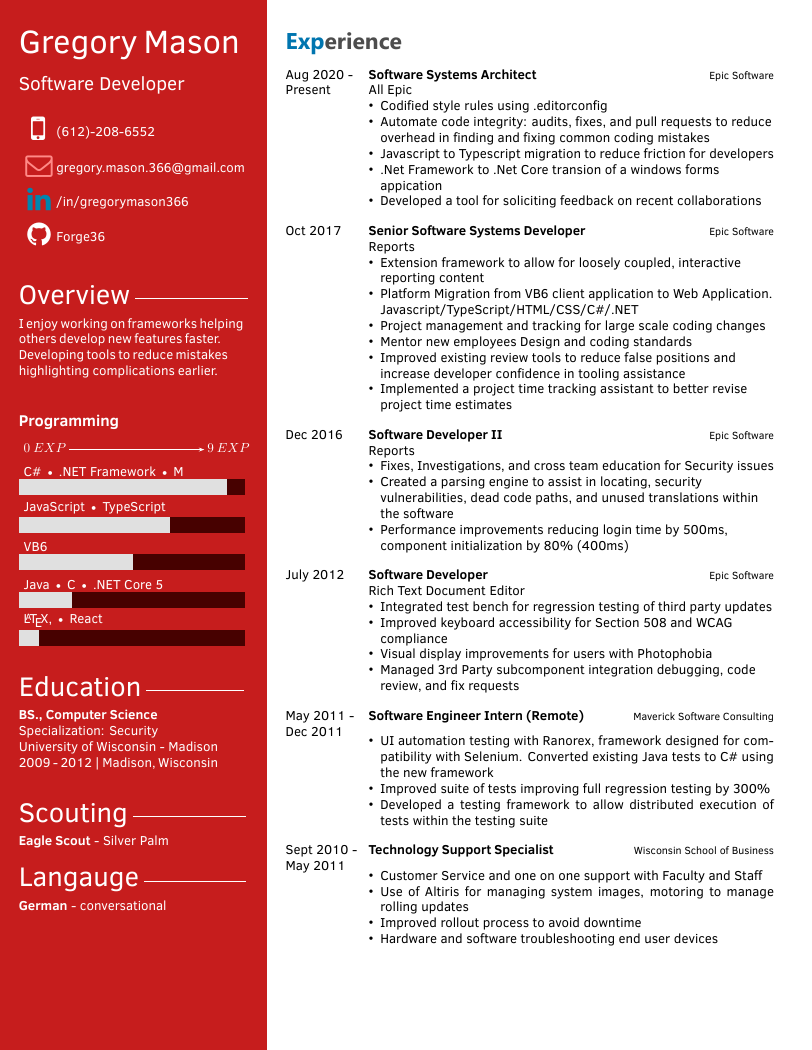
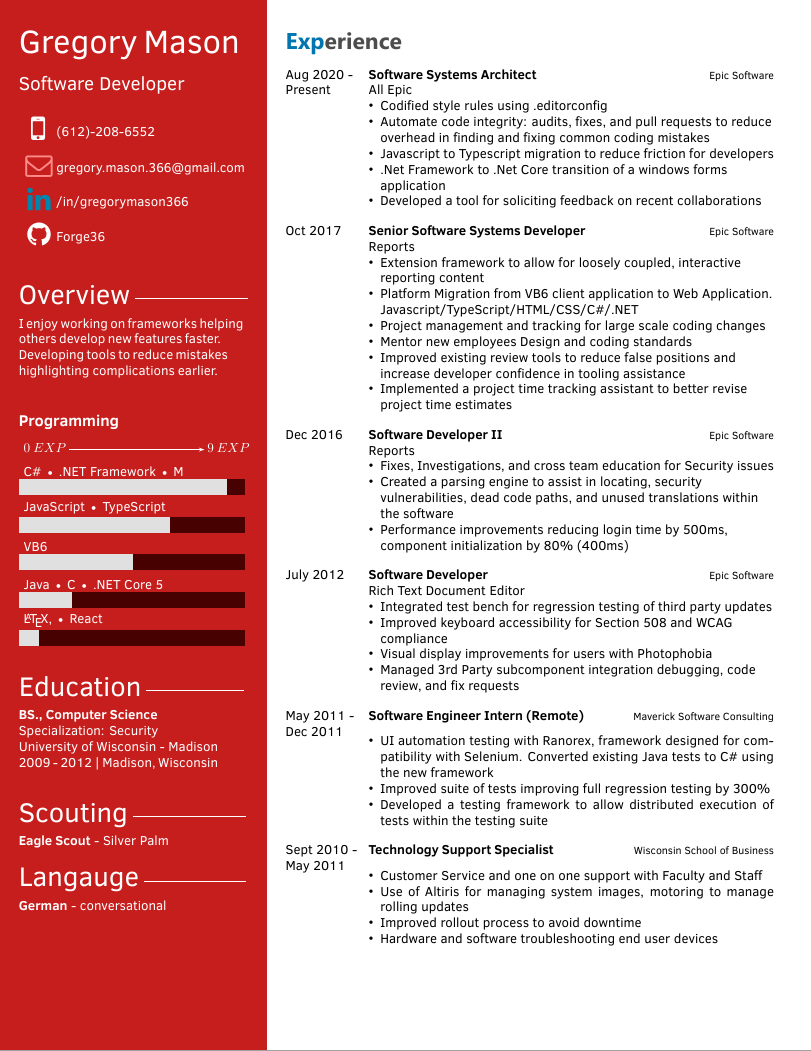
Typo Fixes

diff --git a/template.tex b/template.tex
@@ -91,7 +91,7 @@ Specialization: Security \\
 	\item Codified style rules using .editorconfig
 	\item Automate code integrity: audits, fixes, and pull requests to reduce overhead in finding and fixing common coding mistakes
 	\item Javascript to Typescript migration to reduce friction for developers
-	\item .Net Framework to .Net Core transion of a windows forms appication
+	\item .Net Framework to .Net Core transition of a windows forms application
 	\item Developed a tool for soliciting feedback on recent collaborations
 \end{itemize}}
 \\
